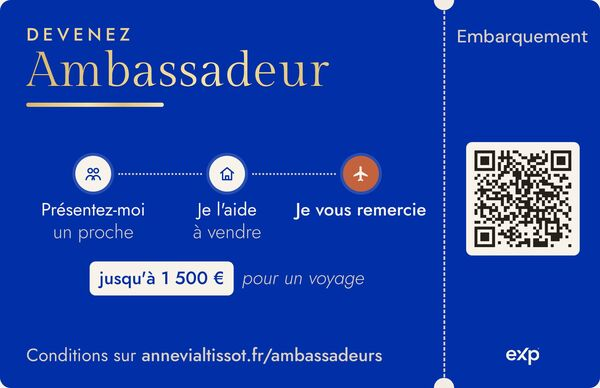
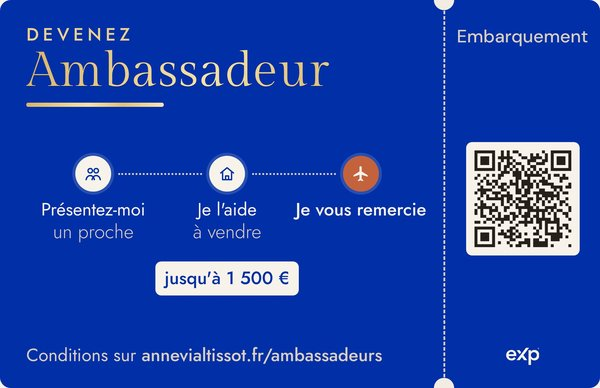
Story 18.18 : verso de la carte joint aux e-mails remplacé par la version corrigée (seulement « jusqu'à 1 500 € », règle de JB)
Claude-Session: https://claude.ai/code/session_01CiN7C239gzY5Hsgnf78eb5

diff --git a/_bmad-output/implementation-artifacts/18-18-envoi-ambassadeur-depuis-l-espace.md b/_bmad-output/implementation-artifacts/18-18-envoi-ambassadeur-depuis-l-espace.md
@@ -24,7 +24,7 @@ Aucune migration : tout tient dans le JSON `filtres` de la campagne et dans des 
 - **Destinataires** (`espace/src/server/campagnes.ts`, `Filtres.ids` / `vue`) : trois modes exclusifs, liste cochée, vue enregistrée (évaluée sur le serveur avec les mêmes `preparerFiltre` et `preparerRecherche` que le tableau ; vue invalide = aucun destinataire et message), anciens filtres. La règle d'accord reste unique (`accord.ts`) : `selectionner` puis `envoyerA` la repassent juste avant chaque e-mail. Écartés avec raison : sans accord, désinscrit, sans adresse, catégorie sans envoi groupé, contact écarté du tableau (nouveau, pour liste et vue seulement, aussi revérifié à l'envoi).
 - **« Envoyer un modèle »** dans la barre des contacts cochés (`pages/index.astro`) : liste des modèles (campagnes cochées « modèle », case ajoutée à la page de la campagne), crée un brouillon par `POST /api/campagnes` (`creerDepuisModele`) et ouvre sa page ; la page de la campagne propose « À qui » : filtres, vue enregistrée ou contacts cochés. Rien ne part d'ici.
 - **Formule** : jeton `[Formule]` (`formuleAppel`, `categories-regles.ts`). `lointains` : « Bonjour Prénom Nom » (aucune civilité en base) ; toute autre catégorie ou aucune : « Bonjour Prénom ». Calculée à chaque envoi d'après la catégorie du moment.
-- **Verso de la carte** : `espace/src/server/carte-ambassadeur-verso.jpg` (600 x 388, 32 Ko, depuis le fichier de 2008 x 1300), jointe par content-id `verso-carte` (`Email.images` dans `site/src/server/adapters/email.ts`, `Habillage.image` dans `email-html.ts`), seulement si la case « joindre le verso » est cochée ; aperçu en image intégrée.
+- **Verso de la carte** : `espace/src/server/carte-ambassadeur-verso.jpg` (600 x 388, 37 Ko, verso corrigé du fil Parrainage), jointe par content-id `verso-carte` (`Email.images` dans `site/src/server/adapters/email.ts`, `Habillage.image` dans `email-html.ts`), seulement si la case « joindre le verso » est cochée ; aperçu en image intégrée.
 - **Après chaque e-mail parti** : dernier contact (maintenant, canal e-mail) et événement `email` « Campagne « nom » envoyée : objet » avec avant-image (AD-29) et la marque `envoi_modele` ; `last_activity_at` inchangé. AD-28 amendé dans le spine.
 - **Fiche sans envoi groupé** (`Fiche.envoi_groupe` faux, adresse connue) : bloc « Écrire à la main » : modèle, « Écrire » (`mailto:` prêt, `GET /api/campagnes?modele&contact`), « Envoyé » (`contact` de `/api/fiche` avec `envoi_modele`, via `noterContact` : dernier contact + trace « envoyé à la main »).
 - **État ambassadeur** : `etatAmbassadeur` (`tableau-colonnes.ts`) ; colonne `ambassadeur` (triable), clé de filtre `ambassadeur_etat` (`vues.ts`, liste), option « État ambassadeur » des filtres, pastille sur la fiche. Contacté = événement portant `envoi_modele` (choisi plutôt que `dernier_contact_le`, que n'importe quel appel remplit) ; calculé par `SQL_MODELE_ENVOYE`, sans colonne.
@@ -43,4 +43,4 @@ Choix à valider par JB : les proches ont `envoi_groupe_permis = 0` par défaut,
 
 - JB : créer le sous-domaine d'envoi `nouvelles.annevialtissot.fr` dans Resend (RUNBOOK § 4 sexies) ; Claude pose ensuite `EXPEDITEUR_CAMPAGNES` par une PR. D'ici là, rien ne part en production.
 - Revue de code (story 9.8) avant fusion.
-- Remplacer carte-ambassadeur-verso.jpg par le verso corrigé (sans « pour un voyage », règle de JB du 2026-11-05) avant la mise en ligne.
+- Verso de la carte remplacé le 2026-11-05 par la version corrigée du fil Parrainage (seulement « jusqu’à 1 500 € », règle de JB du 2026-11-05) : 600 x 388, 37 Ko.
